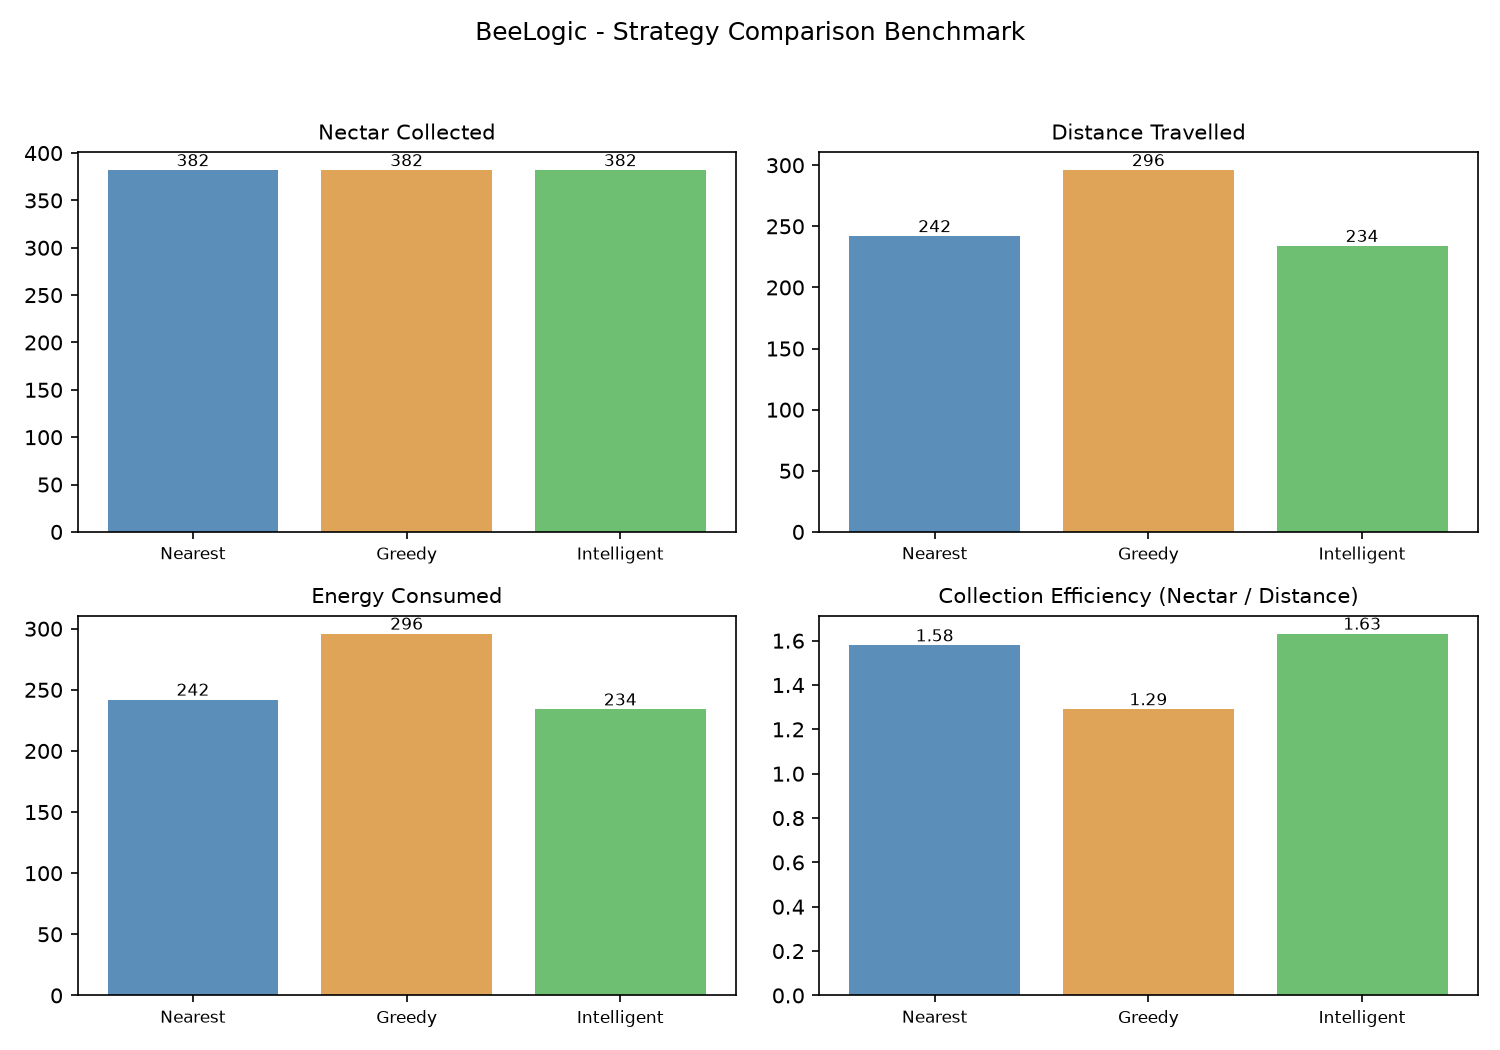
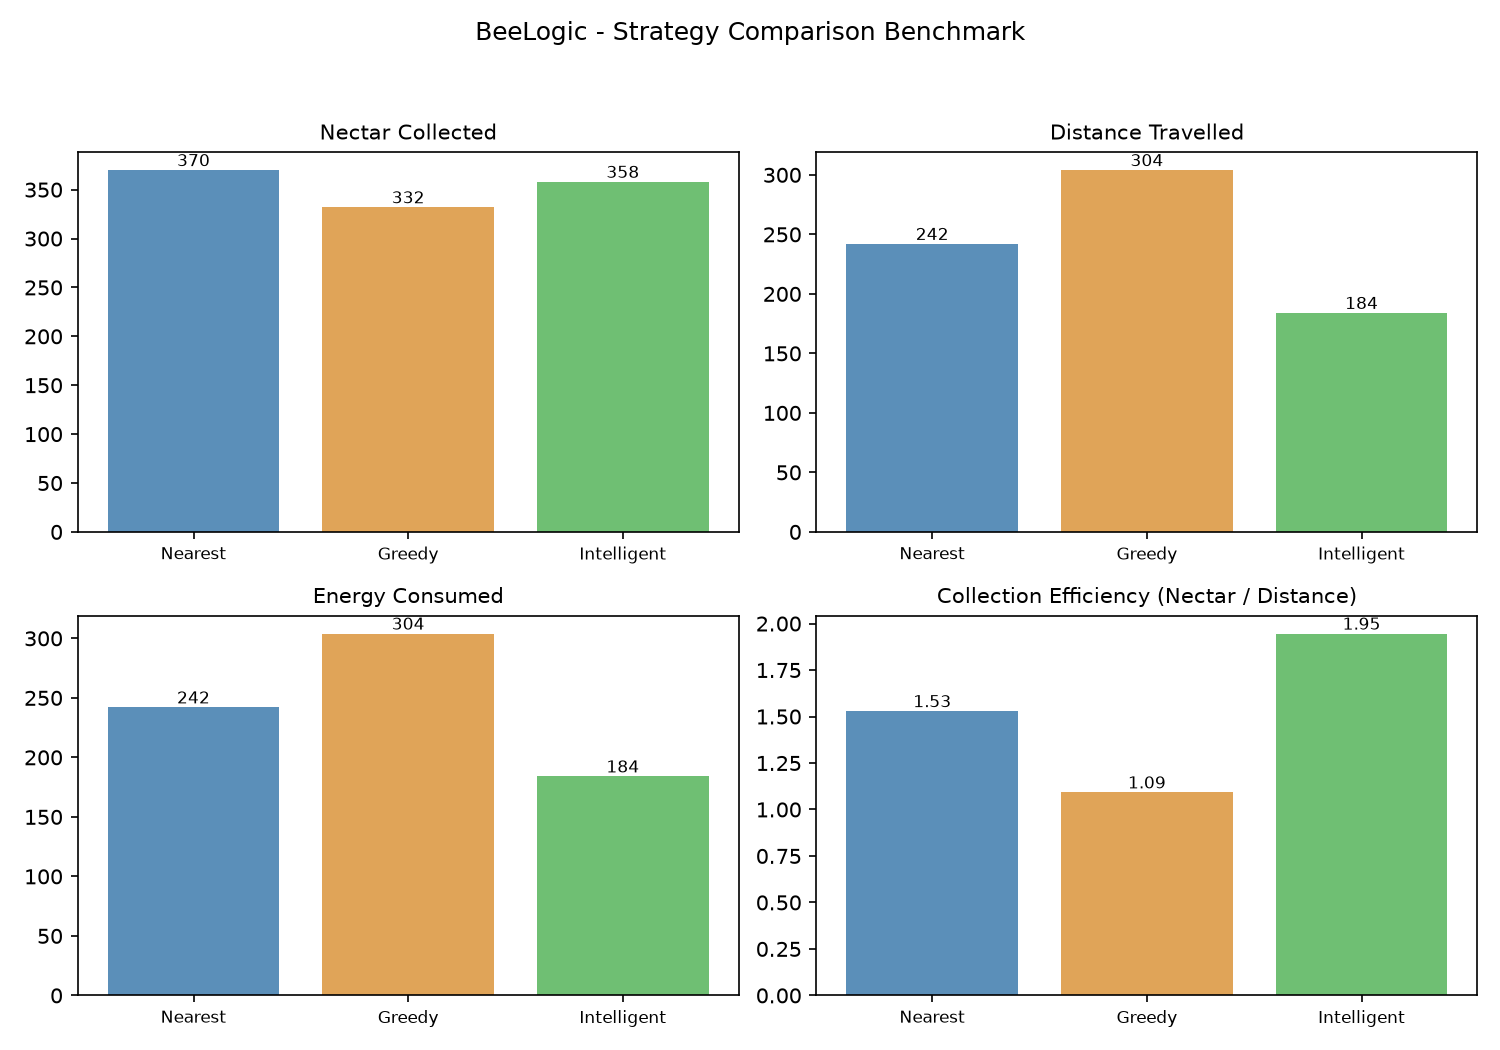
Fixed bee redirection post depletion

diff --git a/simulation/decision.py b/simulation/decision.py
@@ -68,6 +68,21 @@ class SimulationController:
             bee.reason = "Maximum simulation steps reached"
             return
 
+        # Trigger automated event step if configured
+        if self.event_step is not None and bee.time_steps >= self.event_step and not self.event_triggered:
+            self.trigger_dynamic_event()
+
+        # Check if the bee's target flower became depleted mid-flight
+        if bee._target_flower is not None and not bee._target_flower.is_available():
+            depleted_id = bee._target_flower.id
+            bee.current_path = []
+            bee.current_target = None
+            bee._target_flower = None
+            bee.current_decision = f"Redirecting (Flower #{depleted_id} Depleted)"
+            bee.reason = f"Target Flower #{depleted_id} depleted mid-flight; re-evaluating optimal target"
+            if not bee.finished:
+                self._decide_next_target()
+
         if bee.current_path and len(bee.current_path) > 1:
             bee.step_along_path()
             if len(bee.current_path) == 1:
@@ -77,19 +92,44 @@ class SimulationController:
             if not bee.finished:
                 self._decide_next_target()
 
-    def _trigger_environment_change(self):
+    def trigger_dynamic_event(self, target_flower=None):
+        """
+        Triggers a dynamic event to deplete a flower (target_flower if given,
+        or the flower the bee is currently heading towards, or a random available flower).
+        Immediately re-evaluates and redirects the bee if its target was depleted.
+        """
         self.event_triggered = True
-        flower = self.env.trigger_dynamic_event()
-        if flower is not None:
-            self.event_log = f"Environment changed: Flower {flower.id} became depleted!"
+        
+        # 1. If explicit target_flower provided and available
+        if target_flower is not None and target_flower.is_available():
+            flower = self.env.trigger_dynamic_event(target_flower=target_flower)
+        # 2. If bee is actively pursuing an available flower, prioritize depleting that flower
+        elif self.bee._target_flower is not None and self.bee._target_flower.is_available():
+            flower = self.env.trigger_dynamic_event(target_flower=self.bee._target_flower)
+        # 3. Otherwise pick randomly among available flowers
         else:
-            self.event_log = "Environment changed."
+            flower = self.env.trigger_dynamic_event()
+
+        if flower is not None:
+            self.event_log = f"Dynamic Event: Flower #{flower.id} became depleted!"
+        else:
+            self.event_log = "Dynamic Event: No available flowers to deplete."
 
         bee = self.bee
         if bee._target_flower is not None and not bee._target_flower.is_available():
+            depleted_id = bee._target_flower.id
             bee.current_path = []
             bee.current_target = None
             bee._target_flower = None
+            bee.current_decision = f"Redirecting (Flower #{depleted_id} Depleted)"
+            bee.reason = f"Target Flower #{depleted_id} depleted mid-flight; re-evaluating optimal target"
+            if not bee.finished:
+                self._decide_next_target()
+
+        return flower
+
+    def _trigger_environment_change(self):
+        return self.trigger_dynamic_event()
 
     def _handle_arrival(self):
         bee = self.bee

diff --git a/main.py b/main.py
@@ -296,9 +296,9 @@ class BeeLogicApp:
                 elif event.key == pygame.K_c:
                     self.run_comparison()
                 elif event.key in (pygame.K_t, pygame.K_e):
-                    flower = self.env.trigger_dynamic_event()
+                    flower = self.controller.trigger_dynamic_event()
                     if flower:
-                        self.event_banner = f"Dynamic Event: Flower #{flower.id} depleted!"
+                        self.event_banner = f"Dynamic Event: Flower #{flower.id} depleted! Bee redirecting..."
                         self.event_banner_timer = 3.5
 
             if event.type in (pygame.MOUSEMOTION, pygame.MOUSEBUTTONDOWN):
@@ -333,15 +333,24 @@ class BeeLogicApp:
                     elif self.btn_speed.clicked(pos):
                         self.toggle_speed()
                     elif self.btn_trigger.clicked(pos):
-                        flower = self.env.trigger_dynamic_event()
+                        flower = self.controller.trigger_dynamic_event()
                         if flower:
-                            self.event_banner = f"Dynamic Event: Flower #{flower.id} depleted!"
+                            self.event_banner = f"Dynamic Event: Flower #{flower.id} depleted! Bee redirecting..."
                             self.event_banner_timer = 3.5
                     elif self.btn_compare.clicked(pos):
                         self.run_comparison()
                     elif self.btn_exit.clicked(pos):
                         pygame.quit()
                         sys.exit(0)
+                    elif 0 <= pos[0] < MAP_W and 0 <= pos[1] < MAP_H:
+                        gx = pos[0] // CELL
+                        gy = pos[1] // CELL
+                        clicked_f = self.env.get_flower_at(gx, gy)
+                        if clicked_f is not None and clicked_f.is_available():
+                            flower = self.controller.trigger_dynamic_event(target_flower=clicked_f)
+                            if flower:
+                                self.event_banner = f"Flower #{flower.id} depleted! Bee redirecting..."
+                                self.event_banner_timer = 3.5
 
     def run_comparison(self):
         self.comparison_results = comparison.run_comparison(seed=self.seed, max_steps=400, event_step=45)

diff --git a/simulation/environment.py b/simulation/environment.py
@@ -130,18 +130,21 @@ class Environment:
     # ------------------------------------------------------------------
     # Dynamic environment change
     # ------------------------------------------------------------------
-    def trigger_dynamic_event(self, rng=None):
+    def trigger_dynamic_event(self, rng=None, target_flower=None):
         """
-        Randomly deplete one currently-available flower to simulate a
-        change in the environment (e.g. another forager emptied it, or
+        Deplete a specific flower or randomly deplete one currently-available flower
+        to simulate a change in the environment (e.g. another forager emptied it, or
         it wilted). Returns the affected Flower, or None if there were
         no available flowers left to affect.
         """
-        rng = rng or random
-        available = self.available_flowers()
-        if not available:
-            return None
-        flower = rng.choice(available)
+        if target_flower is not None and target_flower.is_available():
+            flower = target_flower
+        else:
+            rng = rng or random
+            available = self.available_flowers()
+            if not available:
+                return None
+            flower = rng.choice(available)
         flower.nectar = 0
         flower.depleted = True
         return flower
